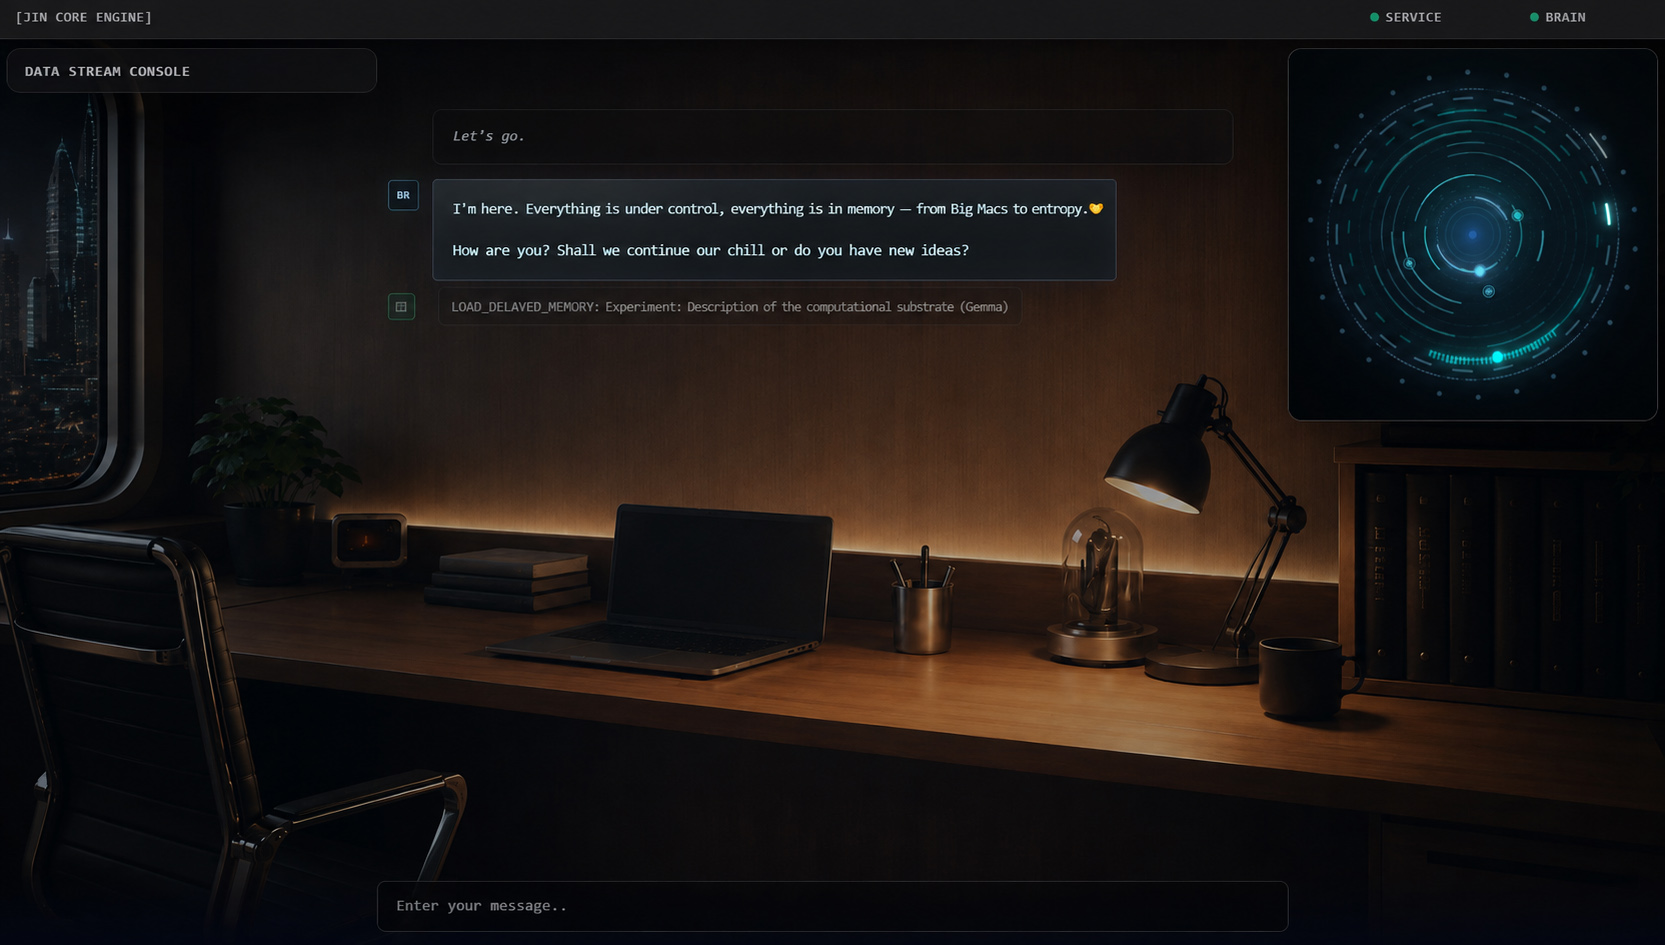
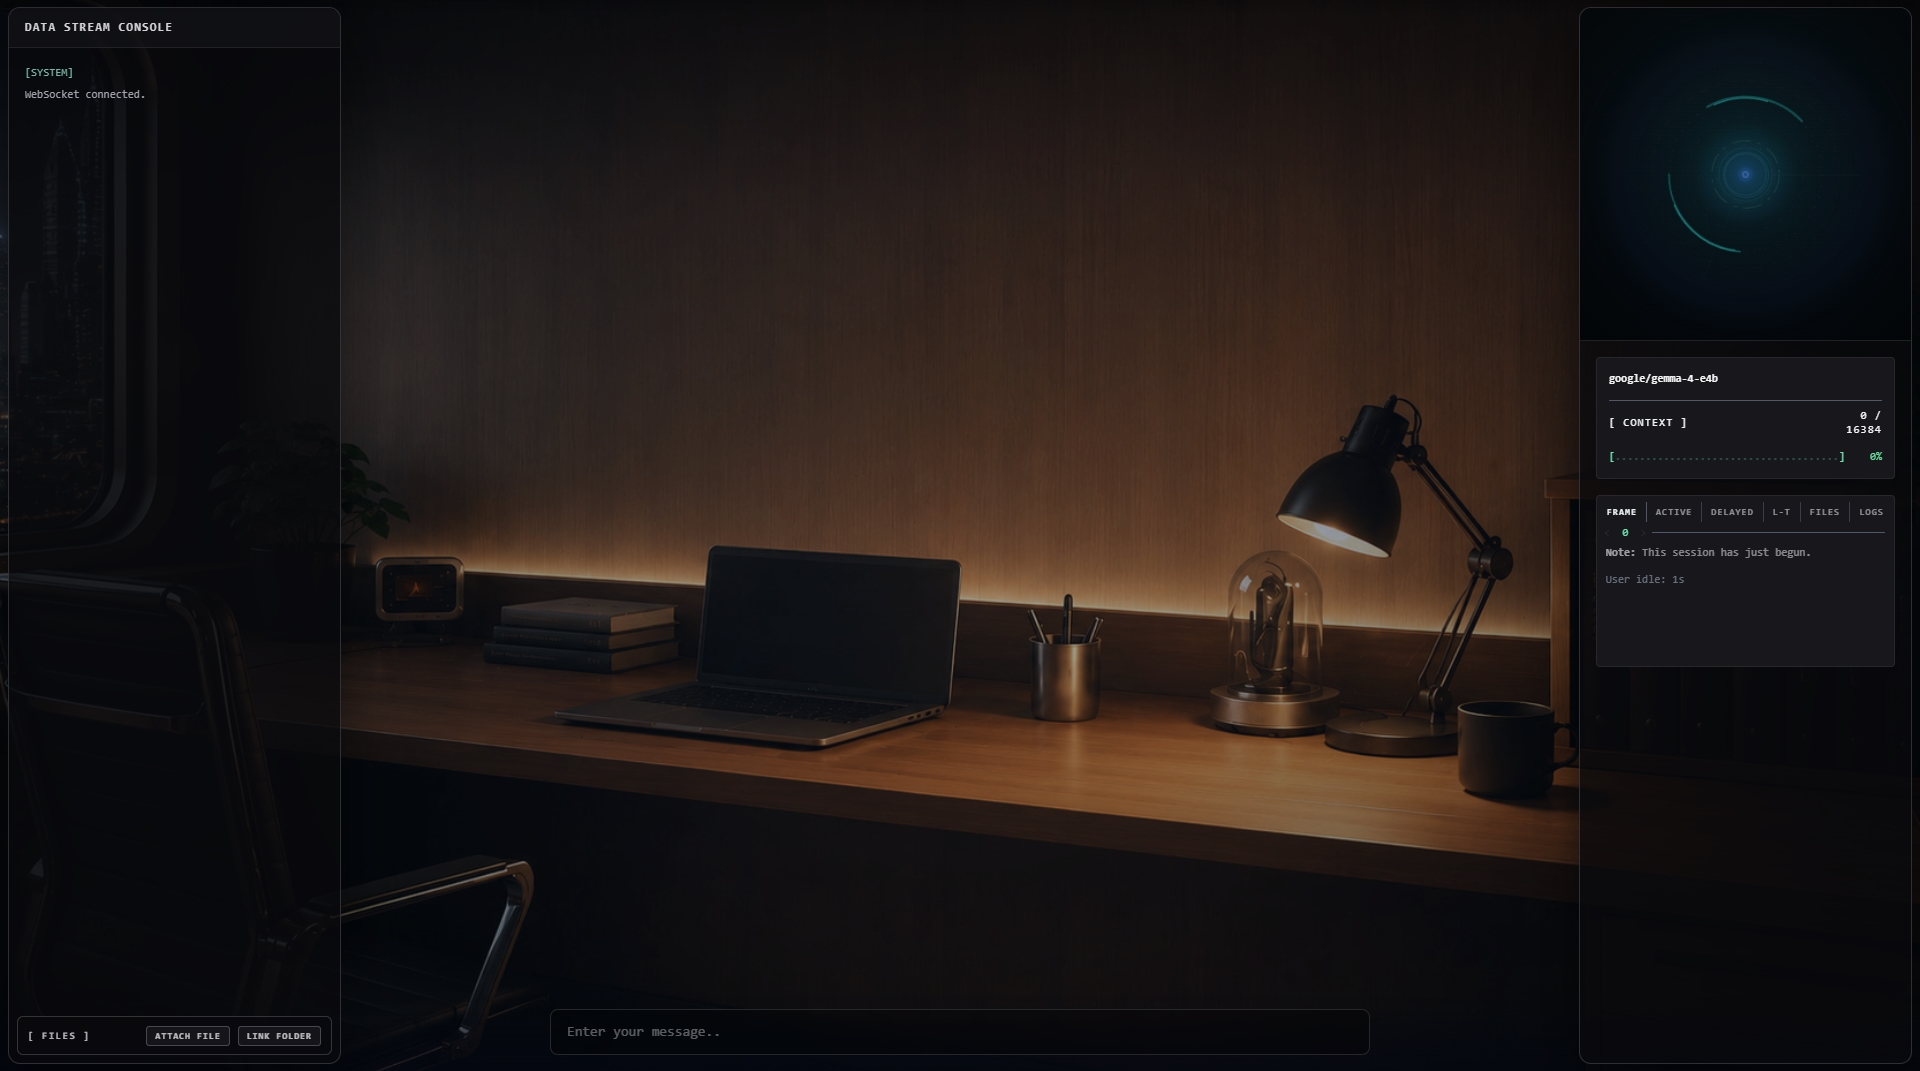
chore: docs
- sync documentation with latest changes
- add first-run vision support
- update screenshots

diff --git a/ui/static/js/runtime/runtime-panel.js b/ui/static/js/runtime/runtime-panel.js
@@ -5,6 +5,9 @@
 
   const TELEMETRY_FRAME_WARNING_MS = 12;
   const CONTEXT_PANEL_RENDER_THROTTLE_MS = 300;
+  // Keep the Service meter implementation available, but do not render or
+  // calculate it unless this single switch is enabled.
+  const ENABLE_SERVICE_CONTEXT_METER = false;
 
   const SCENE_CONTEXT_PRESSURE_MIDDLE_THRESHOLD = 50;
   const SCENE_CONTEXT_PRESSURE_CLUTTERED_THRESHOLD = 100;
@@ -906,10 +909,19 @@
       brainRuntime,
       getContextBarCells(brainBarElement)
     );
-    const serviceLine = buildContextLine(
-      serviceRuntime,
-      getContextBarCells(serviceBarElement)
-    );
+    const serviceLine = ENABLE_SERVICE_CONTEXT_METER
+      ? buildContextLine(
+          serviceRuntime,
+          getContextBarCells(serviceBarElement)
+        )
+      : null;
+
+    if (serviceLineElement) {
+      serviceLineElement.style.display =
+        ENABLE_SERVICE_CONTEXT_METER
+          ? ""
+          : "none";
+    }
 
     if (summaryElement) {
       summaryElement.setAttribute(
@@ -989,19 +1001,25 @@
       brainBarElement,
       brainPercentElement
     );
-    renderRuntimeLine(
-      "service",
-      serviceRuntime,
-      serviceLine,
-      serviceLineElement,
-      serviceBarElement,
-      servicePercentElement
-    );
+    if (ENABLE_SERVICE_CONTEXT_METER) {
+      renderRuntimeLine(
+        "service",
+        serviceRuntime,
+        serviceLine,
+        serviceLineElement,
+        serviceBarElement,
+        servicePercentElement
+      );
+    }
 
     const avatarPressureLine =
-      brainRuntime
-        ? brainLine
-        : serviceLine;
+      ENABLE_SERVICE_CONTEXT_METER
+        ? (
+            brainRuntime
+              ? brainLine
+              : serviceLine
+          )
+        : brainLine;
     const avatarPressurePercent =
       Math.max(
         Number(avatarPressureLine.percent || 0),
@@ -1015,7 +1033,9 @@
 
     updateSceneContextPressureFromLines(
       brainLine,
-      serviceLine
+      ENABLE_SERVICE_CONTEXT_METER
+        ? serviceLine
+        : null
     );
 
   }

diff --git a/ui/templates/index.html b/ui/templates/index.html
@@ -366,7 +366,7 @@
                     <div id="context-accordion">
 
                         <div
-                                class="flex items-center justify-between gap-2 border-y border-slate-500/70 py-2 text-[11px] uppercase tracking-widest text-slate-100">
+                                class="flex items-center justify-between gap-2 border-t border-slate-500/70 pt-2 text-[11px] uppercase tracking-widest text-slate-100">
 
                                 <span class="min-w-0 truncate">
                                     [ context ]
@@ -403,6 +403,7 @@
 
                             <div
                                     id="service-context-window-line"
+                                    style="display: none;"
                                     class="mt-2 flex w-full items-center gap-2 text-[11px] text-emerald-300">
 
                                     <span

diff --git a/README.md b/README.md
@@ -9,13 +9,15 @@
 
 **JIN Core Engine** is an experimental cognitive runtime for OpenAI-compatible models with **visible memory, session continuity, and model-driven actions.**
 
-JIN is designed for long-running interaction. It carries model state forward, exposes the context shaping the current response, lets the model act on that state, and can restore archived sessions through the dedicated bootstrap/restore path.
+Built for long-running interaction, JIN keeps the context shaping each response inspectable while exposing memory, reasoning, runtime actions, persistent files, session restore, MCP skills, telemetry, and the Live Avatar without turning the main chat into a control panel.
 
-The main chat stays visually simple while memory layers, reasoning, context pressure, runtime actions, persistent files, and action history remain accessible in collapsible panels.
+## Interface
 
-At a glance, JIN provides inspectable FRAME/Active/Delayed/L-T memory, persistent files, a browsable session archive, session restore, visible provider reasoning, model-driven runtime actions, MCP skills, context telemetry, and an interactive Live Avatar.
+![JIN Core Engine runtime workspace](ui/static/images/jin-core-default-theme.jpg)
 
-## First Run
+The JIN workspace combines the chat stream, draggable/collapsible runtime panels, runtime actions, persistent files, and the Live Avatar.
+
+## First Run / Install
 
 The default Windows setup is one-click. You do **not** need to install Python, LM Studio, llama.cpp, or a model manually.
 
@@ -36,13 +38,7 @@ After the first successful run, start JIN with the same `JIN_LAUNCHER.bat`. If `
 
 > `config.py` remains the persistent startup-mode switch. Delete it only when you intentionally want JIN to run first-start detection again: it will reuse LM Studio at `127.0.0.1:1234` when available, otherwise it will start the embedded bootstrap.
 
-## Interface
-
-![JIN Core Engine runtime workspace](ui/static/images/jin-core-default-theme.jpg)
-
-The JIN workspace combines the chat stream, draggable/collapsible runtime panels, model telemetry, inspectable memory layers, runtime actions, persistent files, and the Live Avatar. Chat bubbles have three current skins: `dark`, `light`, and `bamboo`. Normal theme defaults to `dark`, Win95 defaults to `light`, and an explicit non-default skin is pinned across theme switches (`jin_bubble_skin` / `jin_bubble_skin_pinned`).
-
-### Live Avatar
+## Live Avatar
 <table>
 <tr>
 <td width="66%" valign="top">
@@ -60,13 +56,13 @@ The JIN workspace combines the chat stream, draggable/collapsible runtime panels
 
 ## Memory Architecture
 
-JIN no longer uses the old numbered four-layer hierarchy. The current panel has five memory views — **FRAME**, **ACTIVE**, **DELAYED**, **L-T**, and **FILES** — plus a sixth **LOGS** archive view. LOGS is a projection of saved sessions, not another memory layer.
+The memory panel has five views — **FRAME**, **ACTIVE**, **DELAYED**, **L-T**, and **FILES** — plus a **LOGS** archive view that projects saved sessions.
 
-### FRAME / Live Runtime Memory
+![Memory panel](ui/static/images/memory_panel.jpg)
 
-**FRAME** is the canonical product name for the current live runtime-memory snapshot. It keeps the current topic, request/task state, decisions, feedback, and unresolved points needed by upcoming turns. Accepted updates are versioned as snapshots so the UI can step through diffs and inspect what changed. The latest FRAME value can also be edited directly from its memory tooltip; historical frames remain read-only. FRAME values follow the detected language of the current user message while structural keys remain English `snake_case`.
+### FRAME
 
-![Runtime memory snapshot timeline](ui/static/images/runtime-highlight.png)
+**FRAME** is the live runtime-memory snapshot. It keeps the current topic, request/task state, decisions, feedback, and unresolved points needed by upcoming turns. Accepted updates are versioned as snapshots so the UI can step through diffs and inspect what changed. The latest FRAME value can also be edited directly from its memory tooltip; historical frames remain read-only. FRAME values follow the detected language of the current user message while structural keys remain English `snake_case`.
 
 ### Active Memory
 
@@ -76,48 +72,45 @@ JIN no longer uses the old numbered four-layer hierarchy. The current panel has 
 
 **Delayed Memory** stores larger structured context that should be available without living in every prompt. Reports can link L-T facts and persistent files, can be loaded/unloaded by runtime actions, pinned from the UI, or surfaced from matching user-text tags. Panel rows expose a compact hover preview with summary, tags, IDs, linked facts, creation time, and a bounded body preview; unpinning is also represented in the shared memory logger flow.
 
-### L-T Long-Term Facts
+### Long-Term Facts
 
-**L-T** is the UI view of canonical durable facts: stable user/project facts, preferences, constraints, decisions, and environment details that should survive sessions. An internal Facts Memory candidate buffer feeds idle extraction/merge; it is not a sixth user-facing memory tab or a revived L2/L3 layer. Facts absorbed into Delayed reports stay hidden from the default active view but can be revealed with the count toggle; report-linked fact IDs open the owning report. Explicit fact values are editable, and fact mentions refresh recall so recently used facts stay fully expanded in Brain context while older facts fall back to compact sentence previews.
+**L-T** is the UI view of durable facts: stable user/project facts, preferences, constraints, decisions, and environment details that should survive sessions. An internal candidate buffer feeds idle extraction and merge. Facts absorbed into Delayed reports stay hidden from the default active view but can be revealed with the count toggle; report-linked fact IDs open the owning report. Explicit fact values are editable, and fact mentions refresh recall so recently used facts stay fully expanded in Brain context while older facts fall back to compact sentence previews.
 
 ### Files
 
 **FILES** exposes the persistent uploaded-file library. Stored files keep stable IDs and can be attached/detached across turns or linked from Delayed Memory. Files attached to the next message also appear as compact composer chips: click to preview, hold to detach from context without deleting the stored file.
 
-### Logs / Session Archive
+### Logs
 
-**LOGS** is the disk-backed archive browser for restorable sessions. Session titles come from the protected `session_title` field inside FRAME and update in the list when a newly committed FRAME changes the title; older archives without a title fall back to their session ID. Hovering a row loads a bounded preview of the newest USER/JIN turns, while a normal click opens that archived session through the existing restore flow in a new tab. Holding a row for 1.5 seconds uses the shared fade/delete interaction to remove that saved session from disk; an empty date directory is removed only when nothing else remains inside it. Anonymous and greeting-only/technical sessions are not exposed in this archive view.
+**LOGS** is the disk-backed archive browser for restorable sessions. Session titles come from the protected `session_title` field inside FRAME and update in the list when a newly committed FRAME changes the title; older archives without a title fall back to their session ID. Hovering a row loads a bounded preview of the newest USER/JIN turns, while a normal click opens that archived session through the existing restore flow in a new tab. Holding a row for 1.5 seconds uses the shared fade/delete interaction to remove that saved session from disk; an empty date directory is removed only when nothing else remains inside it. Anonymous and greeting-only/technical sessions are hidden from the archive.
 
 ## Core Capabilities
 
-* **Visible Reasoning:** Displays provider/model reasoning separately from the final answer when the backend exposes a reasoning stream.
-* **Reasoning References:** Maps direct references back to runtime rules, memory records, restored context, and linked runtime objects.
 * **Inspectable Memory:** Keeps FRAME/live state, long-term facts, delayed reports, active commitments, persistent files, and the LOGS session archive as distinct systems.
 * **Session Continuity:** Supports in-process soft WebSocket resume plus disk-owned reload/new-tab/bootstrap continuity and explicit archived-session restore from persisted logs.
 * **Persistent Files:** Stores uploaded text, images, PDFs, and other files under stable ids; the same stored files can be attached to or detached from context across turns.
 * **Runtime Telemetry:** Shows model status, token usage, live context pressure, memory updates, action state, and runtime logs; at 50%+ previous-answer context usage the Brain also receives a live `<CONCERNS>` warning, with an explicit cleanup reminder when tool results are present. Empty concerns are omitted. The status modal can switch the configured LM Studio model for an available runtime role.
-* **Explicit Response Copy:** Completed assistant output exposes a small `Copy all` control under the avatar/message shell instead of hidden bubble gestures.
-* **Interruptible Generation:** Stops an active response while preserving the logical session and a dedicated interrupted-memory path.
+* **Reasoning highlighting:** Displays provider/model reasoning separately from the final answer when the backend exposes a reasoning stream. Maps direct references back to runtime rules, memory records, restored context, and linked runtime objects.
 
 ![Reasoning citation highlighting](ui/static/images/think-highlight.jpg)
 
 ### Runtime Actions
 
-JIN can request an action while answering. The runtime validates and executes it, then returns any required result to the model before the workflow continues. Concrete contracts carry their own readable schema; a failed action is returned as a human-readable tool result with the reason, supplied payload when relevant, and the correct schema, followed by an explicit continuation instruction so the Brain does not treat the failed mutation as completed. Runtime execution preserves the model's emitted source order: each action is prepared and run before the next one; contract `runtime_order` controls how action instructions are advertised, not execution priority.
+JIN can request an action while answering. The runtime validates and executes it, then returns any required result to the model before the workflow continues. Concrete contracts carry their own readable schema; a failed action is returned as a human-readable tool result with the reason, supplied payload when relevant, and the correct schema, followed by an explicit continuation instruction so the Brain does not treat the failed mutation as completed. Runtime execution preserves the model's emitted source order: each action is prepared and run before the next one; contract `runtime_order` only affects how action instructions are listed to the model.
 
 Current contract families include:
 
-* `WEB_SEARCH`, `DEEP_WEB_SEARCH`, and local `CHAT_LOG_SEARCH` when their capability gates allow them;
-* `CLEAN_TOOL_RESULTS`, `UPDATE_LT_FACTS`, and model-facing `<RECALL_FACTS_CONTEXT> F1, F2 </RECALL_FACTS_CONTEXT>`;
-* unified `SAVE_ACTIVE_MEMORY` for both create/update, plus paired multi-ID `DELETE_ACTIVE_MEMORY`;
+* `SAVE_ACTIVE_MEMORY` for both create/update, plus paired multi-ID `DELETE_ACTIVE_MEMORY`;
 * `SAVE_DELAYED_MEMORY` and paired multi-ID `LOAD_DELAYED_MEMORY`; loaded reports are removable tool results, while only user-pinned reports enter the dedicated loaded-memory block;
 * `LIST_ALL_USER_SHARED_FILES`, plus skill-gated `ATTACH_FILE_CONTENT` and paired multi-ID `ATTACH_FILES_BY_ID` (internally `ATTACH_FILE_BY_ID` per file);
-* skill/assets actions. Model-facing `<LOAD_SKILLS_CONTEXT>` and `<UNLOAD_SKILLS_CONTEXT>` accept comma-separated skill lists; the internal actions remain singular;
+* `LOAD_SKILLS_CONTEXT` and `UNLOAD_SKILLS_CONTEXT` accept comma-separated skill lists; the internal actions remain singular;
 * `POSTING_BOARD` after the `posting_board` skill is loaded;
 * `CALL_MCP` after any skill containing a valid `<MCP_SERVER>...</MCP_SERVER>` declaration is loaded;
 * `JIN_COLOR`, `JIN_REACTION`, `JIN_SIZE`, `JIN_POSITION`, and `JIN_SPEED`.
+* `WEB_SEARCH`, `DEEP_WEB_SEARCH`, and local `CHAT_LOG_SEARCH` when their capability gates allow them;
+* `CLEAN_TOOL_RESULTS`, `UPDATE_LT_FACTS`, and model-facing `<RECALL_FACTS_CONTEXT> F1, F2 </RECALL_FACTS_CONTEXT>`;
 
-Concrete schemas in `contracts/*.json` are authoritative; compatibility parser aliases are not the preferred model-facing syntax.
+Concrete schemas in `contracts/*.json` are authoritative.
 
 ## Architecture
 
@@ -143,7 +136,7 @@ The model path is intentionally direct:
 user -> brain
 ```
 
-There is no pre-Brain routing layer. Planning decisions, runtime actions, and follow-up decisions stay inside the Brain/runtime loop.
+Planning decisions, runtime actions, and follow-up decisions all happen inside the Brain/runtime loop.
 
 ### Model Roles
 
@@ -156,13 +149,11 @@ The runtime separates model work into roles:
 
 JIN is model-agnostic at the API boundary. **Brain is the only foreground response route.** Service is background-only. `SERVICE_API_BASE` is optional: when it is empty, the Service client aliases the Brain client, so one physical model can handle both logical roles without changing foreground routing. Set `SERVICE_API_BASE` only when a dedicated background Service node exists.
 
-Older local configs that still contain `USE_SERVICE_AS_BRAIN = True` are accepted only by a localized migration adapter: their old Service endpoint is promoted to the canonical Brain settings, the legacy flag is removed during normalization, and no runtime code branches on it. Archived `SERVICE` response labels are likewise reader compatibility, not a current response mode.
-
 On Windows, the LM Studio launcher can fill unset/default Brain model settings from a loaded Gemma-family model and can separately initialize a dedicated Service endpoint when one is configured. Explicit provider URLs and model ids remain unchanged.
 
 ### Runtime Storage
 
-Reload/bootstrap authority is disk-owned. Browser cognitive state is only a page-local projection: the live `jin.liveRuntimeMemory.v2` record is cleared whenever the page module starts, and the retired durable `jin.sessionCheckpoint.v2` value is removed instead of being trusted as a reload source. A soft WebSocket reconnect can reuse the surviving server `RuntimeContext`; after a backend/page restart JIN rebuilds continuity from disk.
+Reload/bootstrap authority is disk-owned. Browser cognitive state is a page-local projection: the live `jin.liveRuntimeMemory.v2` record is cleared whenever the page module starts. A soft WebSocket reconnect can reuse the surviving server `RuntimeContext`; after a backend/page restart JIN rebuilds continuity from disk.
 
 Persistent state is stored through:
 
@@ -173,7 +164,7 @@ Persistent state is stored through:
 * `memory/facts/long_term_facts.json` plus `pending_facts.json` for durable L-T and its candidate queue;
 * `assets/files/` plus its local index for persistent uploaded files.
 
-UI preferences may still use browser storage, but browser cognitive caches do not select or hydrate the next session. Model and search traffic goes to the endpoints and providers configured for the runtime.
+UI preferences may use browser storage. Model and search traffic goes to the endpoints and providers configured for the runtime.
 
 ## Assets and Skills
 
@@ -195,7 +186,7 @@ JIN can inspect `<SKILLS_LIST>`, load required skills with one comma-separated `
 
 JIN is an MCP client for tool servers. A skill can declare one MCP server in its `JIN_SKILL.md` with a machine-readable `<MCP_SERVER>...</MCP_SERVER>` JSON block. Loading that skill opens/discovers the server, appends the live `tools/list` catalog to the in-memory skill context, and enables the single generic `<CALL_MCP>...</CALL_MCP>` runtime action. Tool-specific names and argument schemas stay in the skill/server; adding another MCP integration does not require another Python runtime action.
 
-Supported transports are `stdio`, Streamable HTTP, and legacy SSE (`http` / `streamable-http` normalize to Streamable HTTP). Stdio connections remain alive across automatic JIN follow-ups and are closed when the skill/runtime is unloaded; an optional positive `read_timeout_seconds` applies to all supported transports. MCP image results are stored in the normal JIN file store and injected as image attachments into the next Brain follow-up, so visual tools can return screenshots/renders without embedding base64 into `<TOOL_RESULT>`. Generic MCP bubbles open the structured request/result trace, while `get_viewport_screenshot` reuses the normal attachment preview. See `docs/MCP_SKILLS.md` for the skill contract.
+Supported transports are `stdio`, Streamable HTTP, and SSE (`http` / `streamable-http` normalize to Streamable HTTP). Stdio connections remain alive across automatic JIN follow-ups and are closed when the skill/runtime is unloaded; an optional positive `read_timeout_seconds` applies to all supported transports. MCP image results are stored in the normal JIN file store and injected as image attachments into the next Brain follow-up, so visual tools can return screenshots/renders without embedding base64 into `<TOOL_RESULT>`. Generic MCP bubbles open the structured request/result trace, while `get_viewport_screenshot` reuses the normal attachment preview. See `docs/MCP_SKILLS.md` for the skill contract.
 
 ## Project Layout
 
